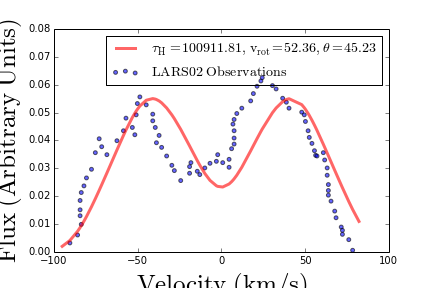
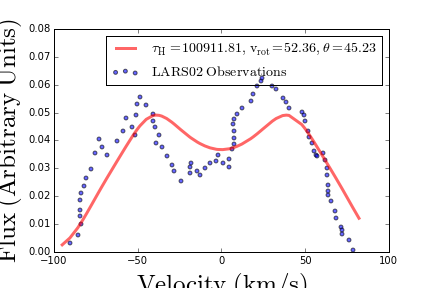
LARS figure

diff --git a/Chapters/Introduction.tex b/Chapters/Introduction.tex
@@ -642,8 +642,9 @@ the middle of the line increases with rotation.
 
 The axys of rotation breaks the symmetry of the system, Althogh 
 observers in different viewing angle with respect to the rotation axys
-observe the same amount of flux of the \ly profile. This result
-lead us to find an approximate analytic solution to model rotation.
+observe the same amount of flux of the \ly profile. But the morphology
+of the profile is affected with the observer position, at some angles
+the profile is double-peaked in others is single peaked. 
  
  
 With these results an approximated analytical solution was derived, 
@@ -682,7 +683,7 @@ values are represented in the figure.
 \end{figure}
 
 With this preliminary results we are implementing a MCMC with five free
-parameters.
+parameters  $\tau, v_{rot} \& \theta, T$ and the line center.
 
 Despite the fact that outflows have been broadly studied rotation should 
 also be present on this galaxies. The joint effect of the two above properties 
